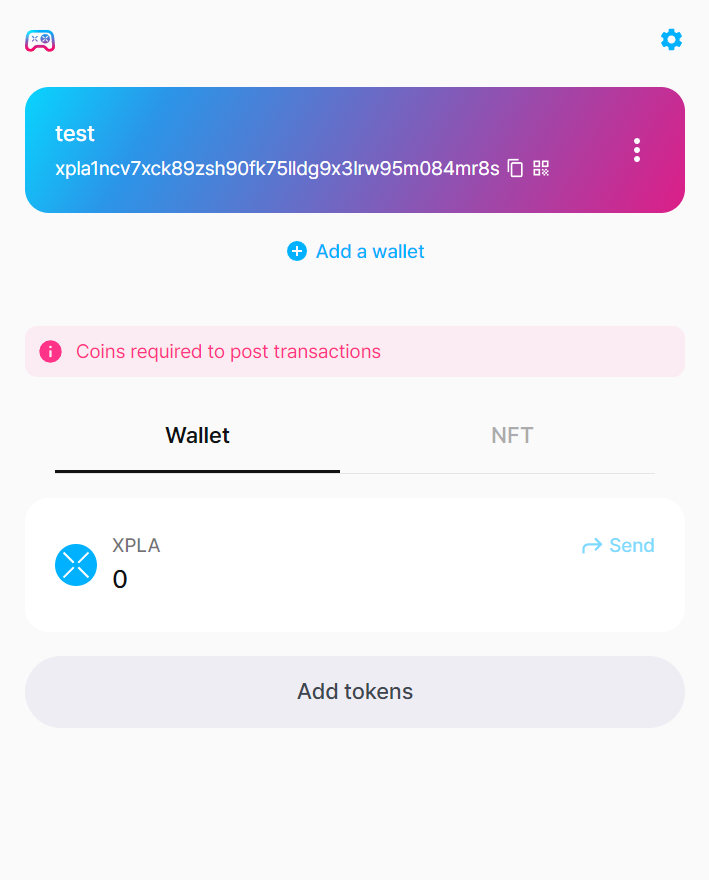
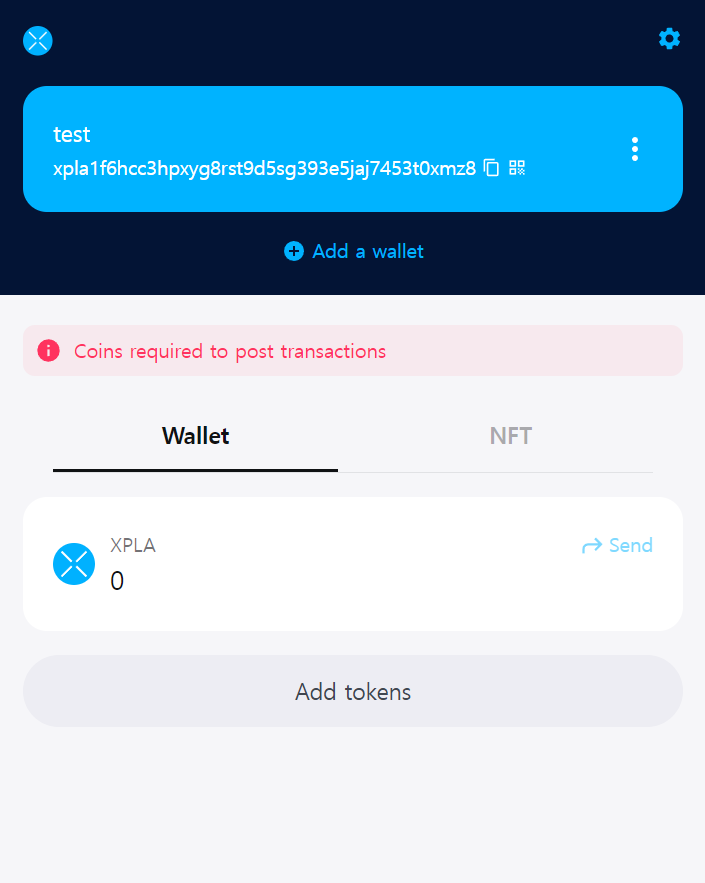
Fix : Fix xplagames to vault

diff --git a/sidebars.js b/sidebars.js
@@ -34,7 +34,7 @@ const sidebars = {
         // description: '블록체인에서 토큰을 보관하고, 전송하려면 무엇이 필요할까요? 바로 지갑입니다. 직접 지갑을 만들어 보면서 자세히 살펴봅시다.'
         description: '일상에서 현금을 보관하기 위해 지갑을 사용하는 것처럼, 블록체인에서도 토큰을 보관하기 위해 지갑이 필요합니다. 직접 지갑을 만들어 보면서 자세히 살펴봅시다.'
       },
-      items: ['settings/create-wallet/create-wallet-with-xpla-games', 'settings/create-wallet/create-wallet-with-lcd'],
+      items: ['settings/create-wallet/create-wallet-with-vault', 'settings/create-wallet/create-wallet-with-lcd'],
     },
     'settings/connect-testnet',
     {

diff --git a/src/components/VaultImgCard.tsx b/src/components/VaultImgCard.tsx
@@ -1,0 +1,13 @@
+import React from "react";
+
+const VaultImgCard = ({
+  imgSrc,
+  style,
+}: {
+  imgSrc: string;
+  style?: React.CSSProperties;
+}) => {
+  return <img style={style} className="max-w-sm" src={imgSrc} alt="" />;
+};
+
+export default VaultImgCard;
